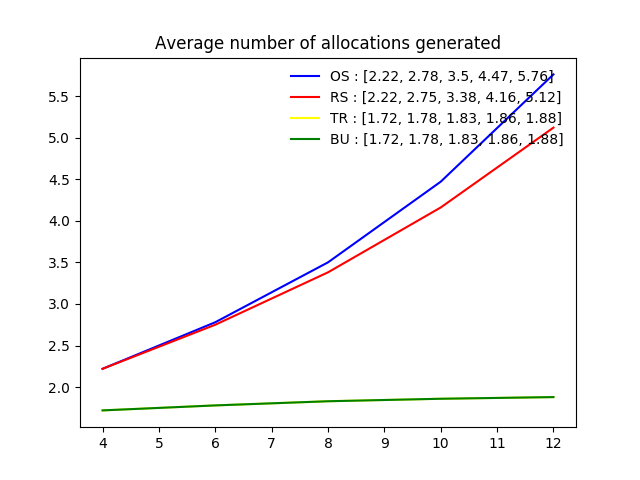
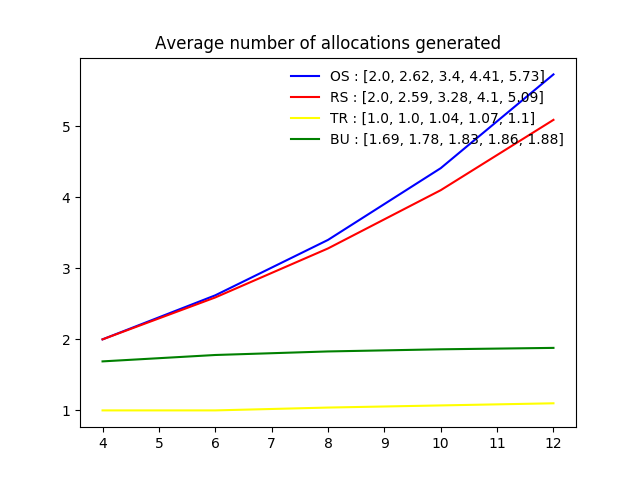
Validation OS, BU, TR et RS sur tous les profils de préférences

diff --git a/measures.py b/measures.py
@@ -5,7 +5,7 @@ import matplotlib.pyplot as plt
 import matplotlib.pyplot as plt1
 
 Nmin = 4
-Nmax = 8
+Nmax = 12
 print("Q1 : How many allocations are generated by each algorithm on average?")
 
 #generation de couples de profils rapides jusqu'a N = 12
@@ -24,6 +24,7 @@ TR_frac_uniq = list()
 
 for N in range(Nmin, Nmax+1, 2):
     L_C = L_couple_single_peaked_preferences(N)
+    # L_C = L_couple_toutes_preferences(N)
     print("Number of problems : {}".format(len(L_C)))
 
 
@@ -40,7 +41,7 @@ for N in range(Nmin, Nmax+1, 2):
             os_n_frac_uniq += 1
 
     OS_values.append(round(1.*sum(OS_Number_of_allocations_L)/len(OS_Number_of_allocations_L), 2))
-    OS_frac_uniq.append(round(100.*os_n_frac_uniq/len(L_C), 1))
+    OS_frac_uniq.append(round(100.*os_n_frac_uniq/len(OS_Number_of_allocations_L), 1))
 
     RS_Number_of_allocations_L = list()
     rs_n_frac_uniq = 0
@@ -54,7 +55,7 @@ for N in range(Nmin, Nmax+1, 2):
             rs_n_frac_uniq += 1
 
     RS_values.append(round(1.*sum(RS_Number_of_allocations_L)/len(RS_Number_of_allocations_L),2))
-    RS_frac_uniq.append(round(100.*rs_n_frac_uniq/len(L_C), 1))
+    RS_frac_uniq.append(round(100.*rs_n_frac_uniq/len(RS_Number_of_allocations_L), 1))
 
     BU_Number_of_allocations_L = list()
     bu_n_frac_uniq = 0
@@ -67,7 +68,7 @@ for N in range(Nmin, Nmax+1, 2):
             bu_n_frac_uniq += 1
 
     BU_values.append(round(1.*sum(BU_Number_of_allocations_L)/len(BU_Number_of_allocations_L), 2))
-    BU_frac_uniq.append(round(100.*bu_n_frac_uniq/len(L_C), 1))
+    BU_frac_uniq.append(round(100.*bu_n_frac_uniq/len(BU_Number_of_allocations_L), 1))
 
     TR_Number_of_allocations_L = list()
     tr_n_frac_uniq = 0
@@ -80,7 +81,7 @@ for N in range(Nmin, Nmax+1, 2):
             tr_n_frac_uniq += 1
 
     TR_values.append(round(1.*sum(TR_Number_of_allocations_L)/len(TR_Number_of_allocations_L), 2))
-    TR_frac_uniq.append(round(100.*tr_n_frac_uniq/len(L_C), 1))
+    TR_frac_uniq.append(round(100.*tr_n_frac_uniq/len(TR_Number_of_allocations_L), 1))
 
 
 os, = plt.plot(range(Nmin, Nmax+1, 2), OS_values, color="blue")

diff --git a/cocomax.py b/cocomax.py
@@ -147,21 +147,24 @@ def matrix_of_MM_allocations_values(N=0, X=[], L_of_couple_of_pprofiles=(None, N
 # N = 4
 # X = all_possible_allocations(N)
 # print(X)
-# # # B = matrix_of_borda_scores(X=X, N=N, agent1_pprofile=[1, 2, 3, 4, 5, 6], agent2_pprofile=[6, 5, 4, 3, 2, 1])
+# # # # # B = matrix_of_borda_scores(X=X, N=N, agent1_pprofile=[1, 2, 3, 4, 5, 6], agent2_pprofile=[6, 5, 4, 3, 2, 1])
 # L_C = L_couple_single_peaked_preferences(N)
-#
-# # print(L_C)
-# # M_PO = matrix_of_PO_allocations_values(N=N, X=X, L_of_couple_of_pprofiles=L_C)
-# # print(M_PO)
-# M_EF = matrix_of_EF_allocations_values(N=N, X=X, L_of_couple_of_pprofiles=L_C)
-# # print(M_EF)
+# # #
+# # # print(L_C)
+# M_PO = matrix_of_PO_allocations_values(N=N, X=X, L_of_couple_of_pprofiles=L_C)
+# # # print(M_PO)
+# # # M_EF = matrix_of_EF_allocations_values(N=N, X=X, L_of_couple_of_pprofiles=L_C)
+# # # # print(M_EF)
+# # #
+# # M_MM = matrix_of_MM_allocations_values(N=N, X=X, L_of_couple_of_pprofiles=L_C)
 #
 # for i in range(len(L_C)):
 #     print(L_C[i])
 #     s = ""
 #     for j in range(len(X)):
-#         s += str(M_EF[i, j])
+#         s += str(M_PO[i, j])
 #         s += " "
 #     print(s)
+
 # M_MM = matrix_of_MM_allocations_values(N=N, X=X, L_of_couple_of_pprofiles=L_C)
 # print(M_MM)

diff --git a/single_peaked.py b/single_peaked.py
@@ -49,7 +49,7 @@ def overlap_fromright(_list1,_list2,_done,res):
 # all_overlaps(l1,l2,res)
 # print(res)
 
-import itertools
+# import itertools
 
 
 def list_of_all_objects(N):
@@ -114,6 +114,24 @@ def L_couple_single_peaked_preferences(N):
         for j in range(0, len(L_of_preferences)):
             L_couple_of_preferences.append((L_of_preferences[i], L_of_preferences[j]))
     return L_couple_of_preferences
+
+import itertools as ite
+
+def toutes_preferences(N):
+    L = list(ite.permutations([i for i in range(1, N+1)], N))
+    return [list(elem) for elem in L]
+
+def L_couple_toutes_preferences(N):
+    T = toutes_preferences(N)
+    R = list()
+    for i in range(len(T)):
+        for j in range(len(T)):
+            R.append((T[i], T[j]))
+    return R
+
+
+
+# print(len(toutes_preferences(4)))
 
 # listalloc = list()
 # single_peak_branch(listallobjects, listalloc)

diff --git a/measures3.py b/measures3.py
@@ -18,7 +18,7 @@ for N in range(Nmin, Nmax+1, 2):
     for i_p in range(len(L_C)):
         profile_A, profile_B = L_C[i_p]
         U = {i for i in range(1, N+1)}
-        Allocations = TR(N=N, A_pprofile=profile_A, B_pprofile=profile_B)
+        Allocations = BU(N=N, A_pprofile=profile_A, B_pprofile=profile_B)
         # Allocations = OS(Alloc=list(), Z_A=set(), Z_B=set(), A_pprofile=profile_A, B_pprofile=profile_B, U=U)
         if len(Allocations) == 0:
             print("no found")
@@ -33,7 +33,7 @@ for N in range(Nmin, Nmax+1, 2):
                     ix += 1
 
             # if M_PO[i_p, ix]  and M_EF[i_p, ix] and M_MM[i_p, ix]:
-            if M_EF[i_p, ix]:
+            if M_MM[i_p, ix]:
                 os_number_of_p_ef_mm_allocations += 1
     print(round(100.*os_number_of_p_ef_mm_allocations/os_number_of_allocations, 2))
 

diff --git a/measures2.py b/measures2.py
@@ -3,15 +3,15 @@ import time
 import matplotlib.pyplot as plt
 
 Nmin = 4
-Nmax = 10
+Nmax = 6
 Borda_Pareto = list()
 Borda_EF = list()
 Borda_MM = list()
-
 Borda_Pareto_EF_MM = list()
 
 for N in range(Nmin, Nmax+1, 2):
-    L_C = L_couple_single_peaked_preferences(N)
+    # L_C = L_couple_single_peaked_preferences(N)
+    L_C = L_couple_toutes_preferences(N)
     print("Number of problems : {}".format(len(L_C)))
     X = all_possible_allocations(N)
     print("Number of balanced allocations : {}".format(len(X)))

diff --git a/algorithms.py b/algorithms.py
@@ -206,7 +206,7 @@ def TR(N=0, A_pprofile=[], B_pprofile=[]):
 
     return Alloc
 
-# [2, 1, 3, 4], [3, 4, 2, 1]
-# TR = TR(4, A_pprofile=[2, 1, 3, 4], B_pprofile=[3, 4, 2, 1])
-#
-# print(TR)
+# [2, 3, 1, 4], [1, 2, 3, 4
+# B = BU(4, A_pprofile=[2, 3, 1, 4], B_pprofile=[1, 2, 3, 4])
+# #
+# print(B)
